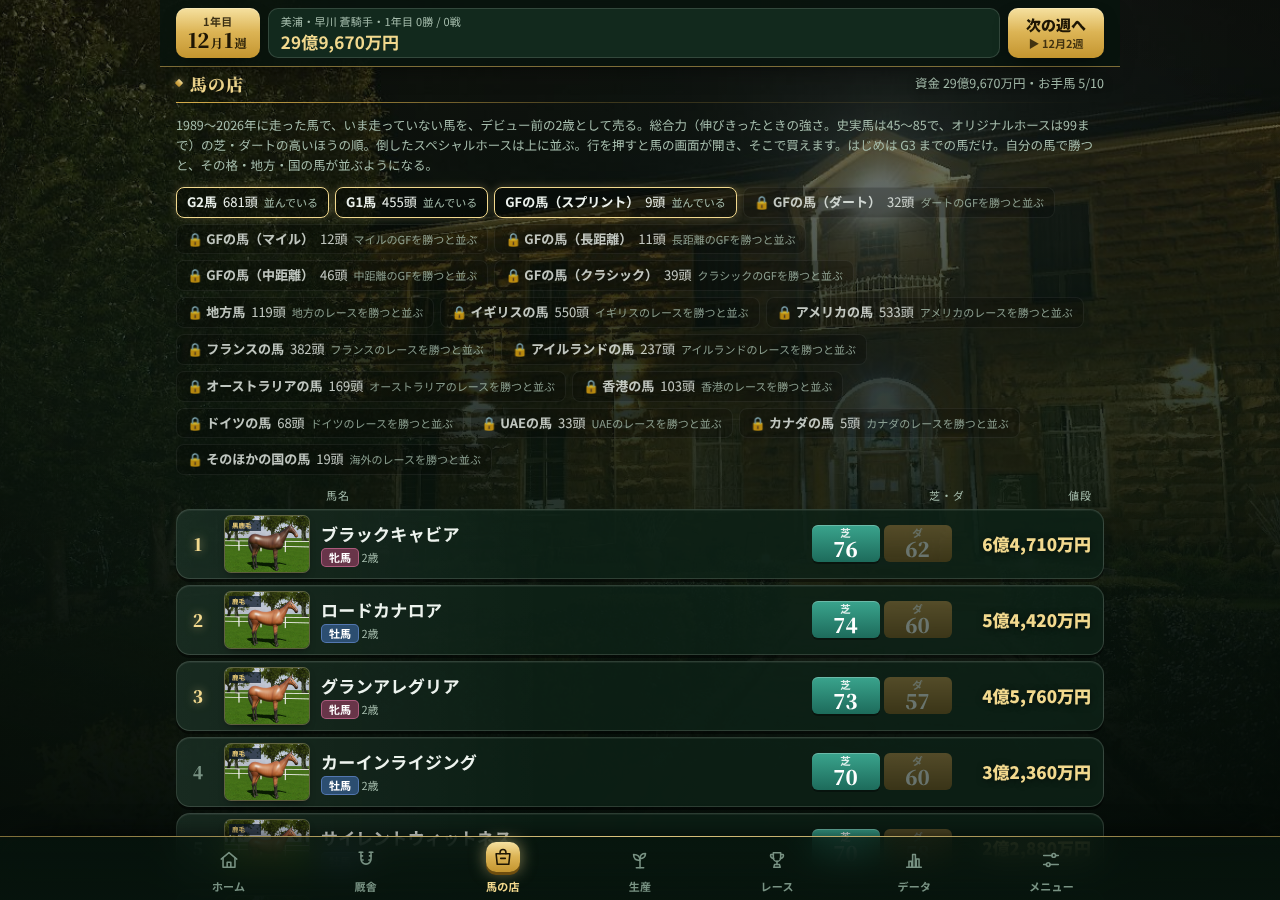
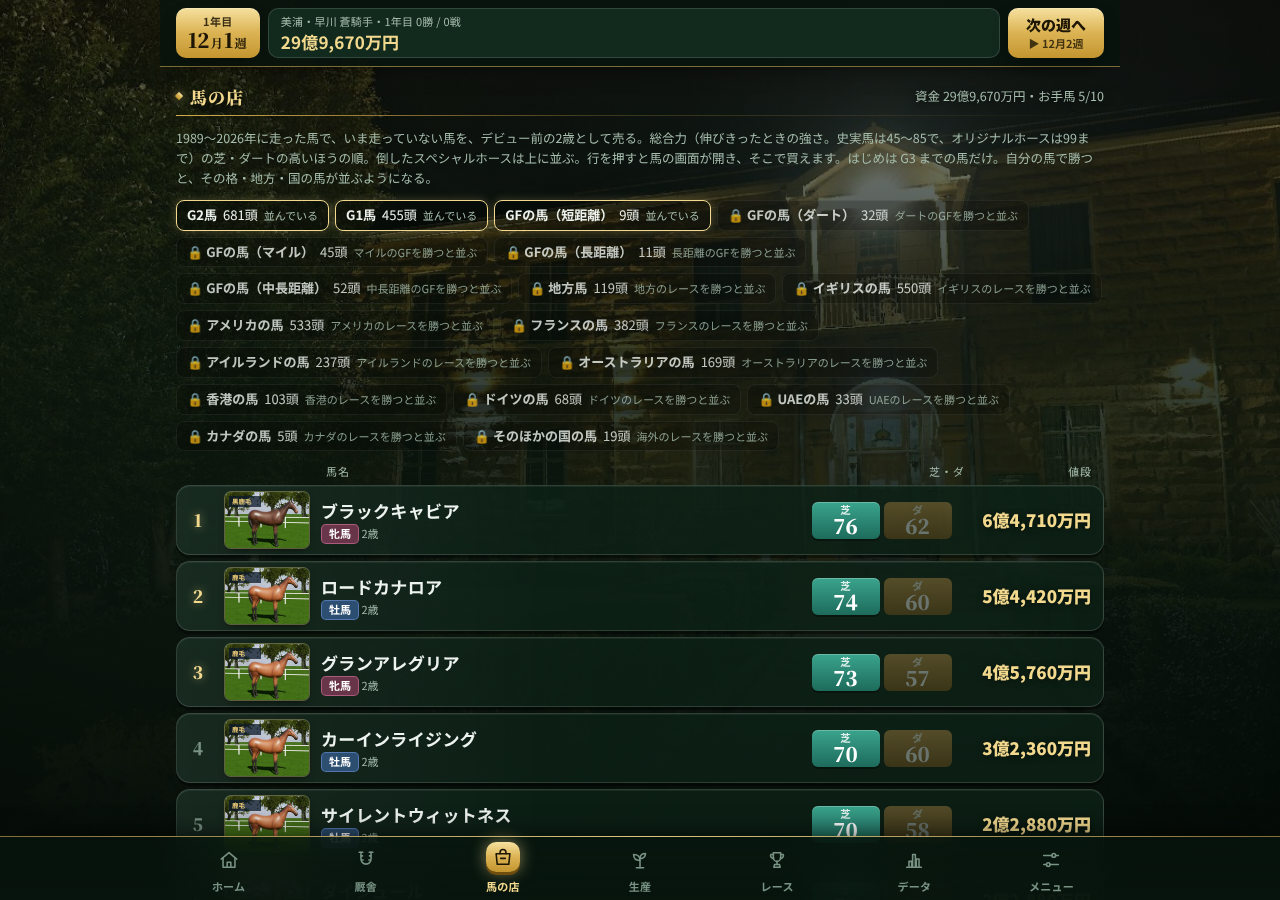
GF を持ち主の決めた5つの距離にする（芝1000・芝1600・芝2400・芝3200・ダート2000）
- 短距離 新潟の直線芝1000・ダート 大井ダ2000（12月2週）、マイル 東京芝1600・長距離 京都芝3200（3週）、中長距離 東京芝2400（4週）
- 票と GF の馬の区分の境目：短距離〜1400m・マイル1401〜2000m・中長距離2001〜2800m・長距離2801m〜・ダート
- テスト・VISION・CHANGELOG・スクリーンショットを5つの形に

Claude-Session: https://claude.ai/code/session_017ihm3MLTEHuCbXx19KsEFV

Changed region(s): [[0.125, 0.0622, 0.875, 0.9333], [0.7812, 0.3111, 0.8438, 0.3733], [0.7188, 0.4356, 0.7812, 0.4978]]

diff --git a/js/core/dream.js b/js/core/dream.js
@@ -1,4 +1,4 @@
-// 年末のドリームレース（グランドフィナーレ・GF）：距離ごとに6つ。出られる条件と、出るかどうかの選択（騎手のゲーム）
+// 年末のドリームレース（グランドフィナーレ・GF）：距離ごとに5つ。出られる条件と、出るかどうかの選択（騎手のゲーム）
 // 持ち主の声 2026-10-16「GFはそれぞれの距離で開かれます」
 // 選ばれ方（GF ごとに16頭。入厩している3歳以上で、故障していない馬）：
 //   1. 確定：前の年のその GF の勝ち馬（連覇に挑む）と、その年にその区分の距離の G1 を勝った自分の馬
@@ -6,26 +6,26 @@
 //      G1を1つ勝てば100票なので、その区分の G1 の勝ち馬はたいてい入る。票が同じなら総合力の順
 //   3. 票のある馬が16頭に足りなければ、その距離に向くほかの馬（総合力の順）で埋める（自分の馬は票が要る）
 //   外国で調教された馬は1つの GF に4頭まで（多いと日本の年末の大一番に見えない）。
-// 招待は12月1週。12月は4週しかないので、2〜4週に2つずつ開く。同じ馬が2つの GF に出るのは、間が2週あるときだけ（2週と4週）。
+// 招待は12月1週。12月は4週しかないので、2・3週に2つずつ、4週に1つ開く。同じ馬が2つの GF に出るのは、間が2週あるときだけ（2週と4週）。
 // 自分の馬が何頭招待されても、1つの GF に出られるのは1頭だけ（プレイヤーが選ぶ）。出ないこともできる。空いた枠はほかの馬の次の順位から埋める。
 (function () {
   const HS = globalThis.HS = globalThis.HS || {};
   const T = HS.Season;
   if (!T) return;
 
-  // ---------- 6つの GF ----------
+  // ---------- 5つの GF ----------
   const turf = (lo, hi) => r => r.surface !== 'ダ' && r.dist >= lo && r.dist <= hi;
+  // 持ち主の決定 2026-10-16：芝1000・芝1600・芝2400・芝3200・ダート2000 の5つ。区分の境目（票・GF の馬の鍵）は数を見て決めた
   T.GF_CATS = [
-    { id: 'sprint', label: 'スプリント', course: '中山', surface: '芝', dist: 1200, week: 2, fit: turf(0, 1400) },
+    { id: 'sprint', label: '短距離', course: '新潟', surface: '芝', dist: 1000, week: 2, fit: turf(0, 1400) },       // 新潟の直線1000m（data/layouts.js の line）
     { id: 'dirt', label: 'ダート', course: '大井', surface: 'ダ', dist: 2000, week: 2, fit: r => r.surface === 'ダ' },
-    { id: 'mile', label: 'マイル', course: '東京', surface: '芝', dist: 1600, week: 3, fit: turf(1401, 1800) },
-    { id: 'long', label: '長距離', course: '京都', surface: '芝', dist: 3200, week: 3, fit: turf(2701, 9999) },
-    { id: 'middle', label: '中距離', course: '阪神', surface: '芝', dist: 2000, week: 4, fit: turf(1801, 2200) },
-    { id: 'classic', label: 'クラシック', course: '東京', surface: '芝', dist: 2400, week: 4, fit: turf(2201, 2700) },
+    { id: 'mile', label: 'マイル', course: '東京', surface: '芝', dist: 1600, week: 3, fit: turf(1401, 2000) },
+    { id: 'long', label: '長距離', course: '京都', surface: '芝', dist: 3200, week: 3, fit: turf(2801, 9999) },
+    { id: 'classic', label: '中長距離', course: '東京', surface: '芝', dist: 2400, week: 4, fit: turf(2001, 2800) }, // 前からの GF（東京芝2400）
   ];
   T.GF_BY = {}; for (const c of T.GF_CATS) T.GF_BY[c.id] = c;
   // AI の馬を割り振る順（1頭が2つに招待されるときは、この順で先の GF に出る）
-  T.GF_ORDER = ['classic', 'middle', 'mile', 'sprint', 'long', 'dirt'];
+  T.GF_ORDER = ['classic', 'mile', 'sprint', 'long', 'dirt'];
   T.DC_PREV = ['ドリームクラシック']; // 前の名前
   T.DC_RESERVE = 6;                    // 招待のあとに故障した馬の代わり
   T.DC_FOREIGN = 4;                    // 外国で調教された馬の枠
@@ -33,7 +33,7 @@
   T.gfName = id => `${T.DC_NAME}（${T.GF_BY[id].label}）`;
   // 勝ち鞍の名前が GF か（前の名前・距離ごとになる前の「グランドフィナーレ」も）
   T.isGF = n => !!n && (n.startsWith(T.DC_NAME) || T.DC_PREV.includes(n));
-  // 勝ち鞍の名前 → 区分（距離ごとになる前の GF はクラシック）
+  // 勝ち鞍の名前 → 区分（距離ごとになる前の GF は中長距離）
   T.gfCatOfName = function (n) {
     if (!T.isGF(n)) return null;
     const c = T.GF_CATS.find(x => n === T.gfName(x.id));
@@ -45,7 +45,7 @@
     if (d.surface === 'ダ' || (d.surface === '芝ダ' && peak && peak.dirt > peak.turf)) return 'dirt';
     if ((d.distMin || 0) >= 2000 && (d.distMax || 0) >= 3000) return 'long';
     const m = ((d.distMin || 1600) + (d.distMax || 2400)) / 2;
-    return m <= 1400 ? 'sprint' : m <= 1800 ? 'mile' : m <= 2150 ? 'middle' : 'classic';
+    return m <= 1400 ? 'sprint' : m <= 2000 ? 'mile' : 'classic';
   };
   // スペシャルホース（伝説級）がこの GF の距離に合うか
   T.gfFits = function (d, race) {
@@ -179,7 +179,7 @@
       gf[id] = { ai, elig, pick: null, ans: null };
     }
     G.dc = { y: G.year, gf };
-    W.news(`${T.DC_NAME}（12月2〜4週・距離ごとに6つ）の招待馬が決まった。`, 'g1');
+    W.news(`${T.DC_NAME}（12月2〜4週・距離ごとに5つ）の招待馬が決まった。`, 'g1');
     const mine = new Set(); for (const id in gf) for (const x of gf[id].elig) mine.add(x.id);
     if (mine.size) W.news(`${[...mine].map(id => W.horse(id).name).join('・')}に${T.DC_NAME}の招待が届いた！ 出るかどうかを決めてください。`, 'g1');
   };
@@ -287,7 +287,7 @@
     return T.dcField({ year: G.year, gf: C.id, key: `${G.year}-12-${C.week}-GF-${C.id}` }).map(x => x.horse);
   };
   // 前の形のセーブを今の形に：
-  //  { y, ids }（GF が1つで、招待された自分の馬が全部出た）・{ y, ai, elig, pick, ans }（GF が1つで、自分の馬は1頭）→ クラシックの GF だけ開く年
+  //  { y, ids }（GF が1つで、招待された自分の馬が全部出た）・{ y, ai, elig, pick, ans }（GF が1つで、自分の馬は1頭）→ 中長距離の GF だけ開く年
   T.dcUpgrade = function (g) {
     if (!g.dc || g.dc.gf) return;
     const d = g.dc;

diff --git a/js/ui/dreamui.js b/js/ui/dreamui.js
@@ -1,4 +1,4 @@
-// 年末のドリームレース（グランドフィナーレ・距離ごとに6つ）の画面：
+// 年末のドリームレース（グランドフィナーレ・距離ごとに5つ）の画面：
 // ホームの「グランドフィナーレへの道」（自分の馬 × GF の資格の表）と、12月の招待（GF ごとに、出るなら自分の馬から1頭を選ぶ・出ない）
 (function () {
   const HS = globalThis.HS = globalThis.HS || {};
@@ -6,7 +6,7 @@
   if (!UI || !App || !T || !T.dcStatus || !T.GF_CATS) return;
   const e = U.esc;
   const isJ = () => J && J.isMode();
-  const RULE = '距離ごとに6つ。その距離のG1を勝った自分の馬と、前の年のその GF の勝ち馬は必ず招待。残りはその距離のレースで集めたファンの票（大きいレースほど・上の着ほど多い）の上位16頭。外国の馬は4頭まで。1つの GF に出られるのは自分の馬から1頭。同じ馬が2つに出るのは間が2週あるときだけ。';
+  const RULE = '距離ごとに5つ。その距離のG1を勝った自分の馬と、前の年のその GF の勝ち馬は必ず招待。残りはその距離のレースで集めたファンの票（大きいレースほど・上の着ほど多い）の上位16頭。外国の馬は4頭まで。1つの GF に出られるのは自分の馬から1頭。同じ馬が2つに出るのは間が2週あるときだけ。';
   const place = c => `12月${c.week}週・${c.course}${c.surface === 'ダ' ? 'ダ' : '芝'}${c.dist}m`;
   // 招待の決まった12月か
   const open = () => { const G = W.get(); return G.dc && G.dc.y === G.year && G.dc.gf && G.month === 12; };
@@ -72,7 +72,7 @@
         ${lineup.length ? `<div class="small dc-lineup">${lineup.map(h => h.owner === 'P' ? `<b class="dc-me">★${e(h.name)}</b>` : e(h.name)).join('・')}</div>` : ''}
       </div>`;
     }).join('');
-    return `<h2 class="sec">${T.DC_NAME}<span class="r">距離ごとに6つ・各16頭</span></h2><div class="panel dc-road">${rows}</div>`;
+    return `<h2 class="sec">${T.DC_NAME}<span class="r">距離ごとに5つ・各16頭</span></h2><div class="panel dc-road">${rows}</div>`;
   }
 
   // ---------- 招待の画面（GF ひとつ）：出るなら1頭を選ぶ。出ないなら AI の馬だけで走る（結果は週のまとめから観戦できる） ----------

diff --git a/js/core/season.js b/js/core/season.js
@@ -203,11 +203,11 @@
   };
 
   // ---------- グランドフィナーレ（GF）：年末のドリームレース。その年に活躍した馬だけが招待されて走る ----------
-  // 距離ごとに6つ（スプリント・マイル・中距離・クラシック・長距離・ダート）。12月1週に招待し、2〜4週に走る。
+  // 距離ごとに5つ（芝1000・芝1600・芝2400・芝3200・ダート2000）。12月1週に招待し、2〜4週に走る。
   // 出られる条件・自分の馬を1頭選ぶか出ないか・出走表は js/core/dream.js
   T.DC_NAME = 'グランドフィナーレ';
   T.DC_FIELD = 16;
-  // 6つの GF（距離ごと）・レースの形・招待・出走表は js/core/dream.js
+  // 5つの GF（距離ごと）・レースの形・招待・出走表は js/core/dream.js
 
   // ---------- 天気（馬場から決まる。週と競馬場ごと） ----------
   T.weather = function (seed, year, month, week, course, ground) {

diff --git a/js/core/eraless.js b/js/core/eraless.js
@@ -156,7 +156,7 @@
     }
     return [...keys];
   };
-  // 前のセーブ：自分の馬が勝った GF の区分の鍵（World.migrate から。区分の無い前の GF はクラシック）
+  // 前のセーブ：自分の馬が勝った GF の区分の鍵（World.migrate から。区分の無い前の GF は中長距離）
   E.gfKeys = function (g) {
     const keys = new Set();
     for (const h of Object.values(g.horses || {})) if (h.owner === 'P') for (const w of h.gradedWins || []) { const c = HS.Season.gfCatOfName(w.short || w.race); if (c) keys.add('gf:' + c); }

diff --git a/CHANGELOG.md b/CHANGELOG.md
@@ -9,7 +9,7 @@
 - フリーレースを足した（タイトルとメニューから）。競馬場・芝ダート・距離・馬場・天気を選び、自分の馬・史実馬（名前で探せる）・スペシャルホースから18頭まで出して、1頭に自分で乗るか、見るだけにする。結果はセーブに何も残らない（賞金・成績・レコード・故障・疲れが付かない）。リプレイも保存できる。
 - レースのリプレイを保存できるようにした。結果の画面の「リプレイを保存」で残し、データ（とタイトル・メニュー）の「リプレイ」から3Dの中継で見直せる（視点の切り替え・×0.5〜×4・10秒先へ・ゴールまで飛ばす）。お気に入り（★）でないものは20本まで古いものから消え、お気に入りは消えない。リプレイはセーブとは別に保存するので、セーブは重くならない。
 - コースレコードの一覧を、競馬場・芝ダート・距離で絞れるようにした。持ちタイム・馬・騎手・年と、前のレコードとの差を出し、自分が乗って作ったレコードは★と金の帯で目立たせる。レコードを破ったレースは、ゴールの後と掲示板と結果の画面に「RECORD」と前のレコードとの差を出す。
-- グランドフィナーレを距離ごとに6つにした（スプリント・マイル・中距離・クラシック・長距離・ダート。12月2〜4週に2つずつ）。招待は GF ごとに、その距離の G1 を勝った自分の馬と前の年の勝ち馬は必ず、残りはその年のその距離のレースで集めた「ファンの票」（G1の1着100票・G2 50票・G3 30票・好走と1番人気でも増える）の上位16頭。外国の馬は4頭まで。ホームに自分の馬 × GF ごとの「資格あり・圏内・圏外（あと何票）」を出す。12月1週に招待が届いたら、GF ごとに出るか出ないかを選び、出るなら招待された馬から1頭（能力・調子・総合力・特殊能力の札）を選ぶ。同じ馬が2つに出るのは間が2週あるときだけ。出ない GF も週のまとめから観戦できる。
+- グランドフィナーレを距離ごとに5つにした（短距離 新潟の直線芝1000・マイル 東京芝1600・中長距離 東京芝2400・長距離 京都芝3200・ダート 大井ダ2000。12月2〜4週）。招待は GF ごとに、その距離の G1 を勝った自分の馬と前の年の勝ち馬は必ず、残りはその年のその距離のレースで集めた「ファンの票」（G1の1着100票・G2 50票・G3 30票・好走と1番人気でも増える）の上位16頭。外国の馬は4頭まで。ホームに自分の馬 × GF ごとの「資格あり・圏内・圏外（あと何票）」を出す。12月1週に招待が届いたら、GF ごとに出るか出ないかを選び、出るなら招待された馬から1頭（能力・調子・総合力・特殊能力の札）を選ぶ。同じ馬が2つに出るのは間が2週あるときだけ。出ない GF も週のまとめから観戦できる。
 - 馬の店のいちばん上の段に「GF の馬」を足した：とびきり強い史実馬（約150頭）は、その馬の得意な距離の GF を勝つと並ぶ（G1 を勝って並んでいた馬の一部がこちらに移る）。
 - BGM を作り直した：90年代後半のゲーム音楽のような、ブラスとリードシンセが歌うフュージョン・ロック。FM 風のブラスとエレピ、スラップベース、張りのあるスネアとハイハットの刻み、軽い響き。場面ごとに曲を書き下ろした（タイトル・ホーム・パドック・グランドフィナーレのパドック・発走前のファンファーレ・グランドフィナーレのファンファーレ・レース・勝ったとき・負けたとき・成績と表彰）。
 - 3Dのレースの坂とコーナーをコースの実際の形と高さで見せるようにした：地面・ラチ・ハロン棒・スタンド・ゲート・木・池がコースの上り下りに沿い、内馬場と外の地面は高さをなだらかにつなぐ。おにぎり型・直線（新潟の千直）・馬蹄形のコースでも地面と置き物が崩れない。坂では中継のカメラが少し低い望遠になり、騎乗の視点は前の坂がせり上がって見える。観客を立体（1万5千人ほど。服・髪・背の高さがばらばら）にし、馬の影を濃く、ダートを土の塊と蹄の跡のある色にした。馬を作り込んだ：肩・胸前・尻の筋肉のふくらみ、のどと頬で頭と首をつなぎ、球節・飛節の角・蹄を太く、たてがみは房のぎざぎざ、尾は3本の房、走るときの体の上下と首の振りを大きく。き甲・背のくぼみ・腹の巻き上がり・尻の丸みの線、目の上のくぼみ・鼻筋・鼻の穴・顎の彫り、毛に筋肉の陰とつやを足した。馬の体の比をサラブレッドに（体長と体高がほぼ同じ・首を細く長く・頭を小さく・胸の前を控えめに）。芦毛の連銭を輪でなくぼかした斑点にし、年を取って白くなるほど薄くした。結果の画面の背景をサッカー場の写真から、このゲームの競馬場のゴール前の絵にした。

diff --git a/docs/VISION.md b/docs/VISION.md
@@ -33,7 +33,7 @@
 
 ## 年末のドリームレース（グランドフィナーレ）の出られる条件
 （持ち主の指示 2026-10-16「年末のドリームレース。出られる条件を考える。出るかはプレイヤーが決める。出るなら資格のある手持ちから1頭」「GFはそれぞれの距離で開かれます」「GFを勝ったら開放される馬も欲しいです」）
-- 形：距離ごとに6つ（スプリント 中山芝1200・マイル 東京芝1600・中距離 阪神芝2000・クラシック 東京芝2400・長距離 京都芝3200・ダート 大井ダ2000）。12月1週に GF ごとに16頭を招待し、12月2〜4週に2つずつ走る（12月は4週なので、同じ週に重ならない6つは置けない。同じ週の2つは別の競馬場）。
+- 形：距離ごとに5つ（持ち主の決定 2026-10-16：短距離 新潟の直線芝1000・マイル 東京芝1600・中長距離 東京芝2400・長距離 京都芝3200・ダート 大井ダ2000）。12月1週に GF ごとに16頭を招待し、12月2週に短距離とダート、3週にマイルと長距離、4週に中長距離を走る（12月は4週なので、同じ週に2つ置く所がある。同じ週の2つは別の競馬場）。票と GF の馬の区分の境目は、短距離〜1400m・マイル1401〜2000m・中長距離2001〜2800m・長距離2801m〜・ダート（数を見て決めた）。
 - 招待：その区分の距離の G1 を勝った自分の馬と、前の年のその GF の勝ち馬（連覇に挑む）は必ず。残りはその区分のレースで集めた「ファンの票」の上位。票は着順と格で決まる（G1の1着100・G2の1着50・G3の1着30など。1番人気で走ると+5）。外国で調教された馬は4頭まで。
 - 出る：GF ごとに、招待された自分の馬から1頭を選ぶか、出ない。出ない GF はほかの馬だけで走り、観戦できる。同じ馬が2つの GF に出るのは、間が2週あるときだけ（2週と4週）。
 - GF を勝つと、馬の店にその区分の「GF の馬」（とびきり強い史実馬。完成の総合力70以上か評価98以上）が並ぶ。店の鍵のいちばん上の段。
@@ -71,7 +71,7 @@
 | オリジナルホース | 引退させた牡馬と牝馬から作る仔。能力は両親から、特殊能力は両親のものから4つまで | ×「配合」「生産馬」 |
 | リーチ | スペシャルホースの条件まで、あと1勝の状態 | |
 | n年目 | 年代なしのゲームの年の数え方 | ×「2025年」など実在の年 |
-| グランドフィナーレ（GF） | 年末のドリームレース。距離ごとに6つ（「グランドフィナーレ（マイル）」など）。その年にその距離で活躍した馬だけが招待されて走る。1つの GF に自分の馬は1頭だけ出られる（出ないこともできる） | ×「ドリームクラシック」（前の呼び名。参考作品の名前に近すぎた） |
+| グランドフィナーレ（GF） | 年末のドリームレース。距離ごとに5つ（「グランドフィナーレ（マイル）」など）。その年にその距離で活躍した馬だけが招待されて走る。1つの GF に自分の馬は1頭だけ出られる（出ないこともできる） | ×「ドリームクラシック」（前の呼び名。参考作品の名前に近すぎた） |
 | ファンの票 | グランドフィナーレの招待を決める数。その年の、その距離のレースの着順と格で集まる | ×「人気投票」 |
 | 招待 | グランドフィナーレに出られる資格。12月1週に GF ごとに決まる | |
 | GF の馬 | GF を勝つと馬の店に並ぶ、とびきり強い史実馬。距離の区分ごと | |
